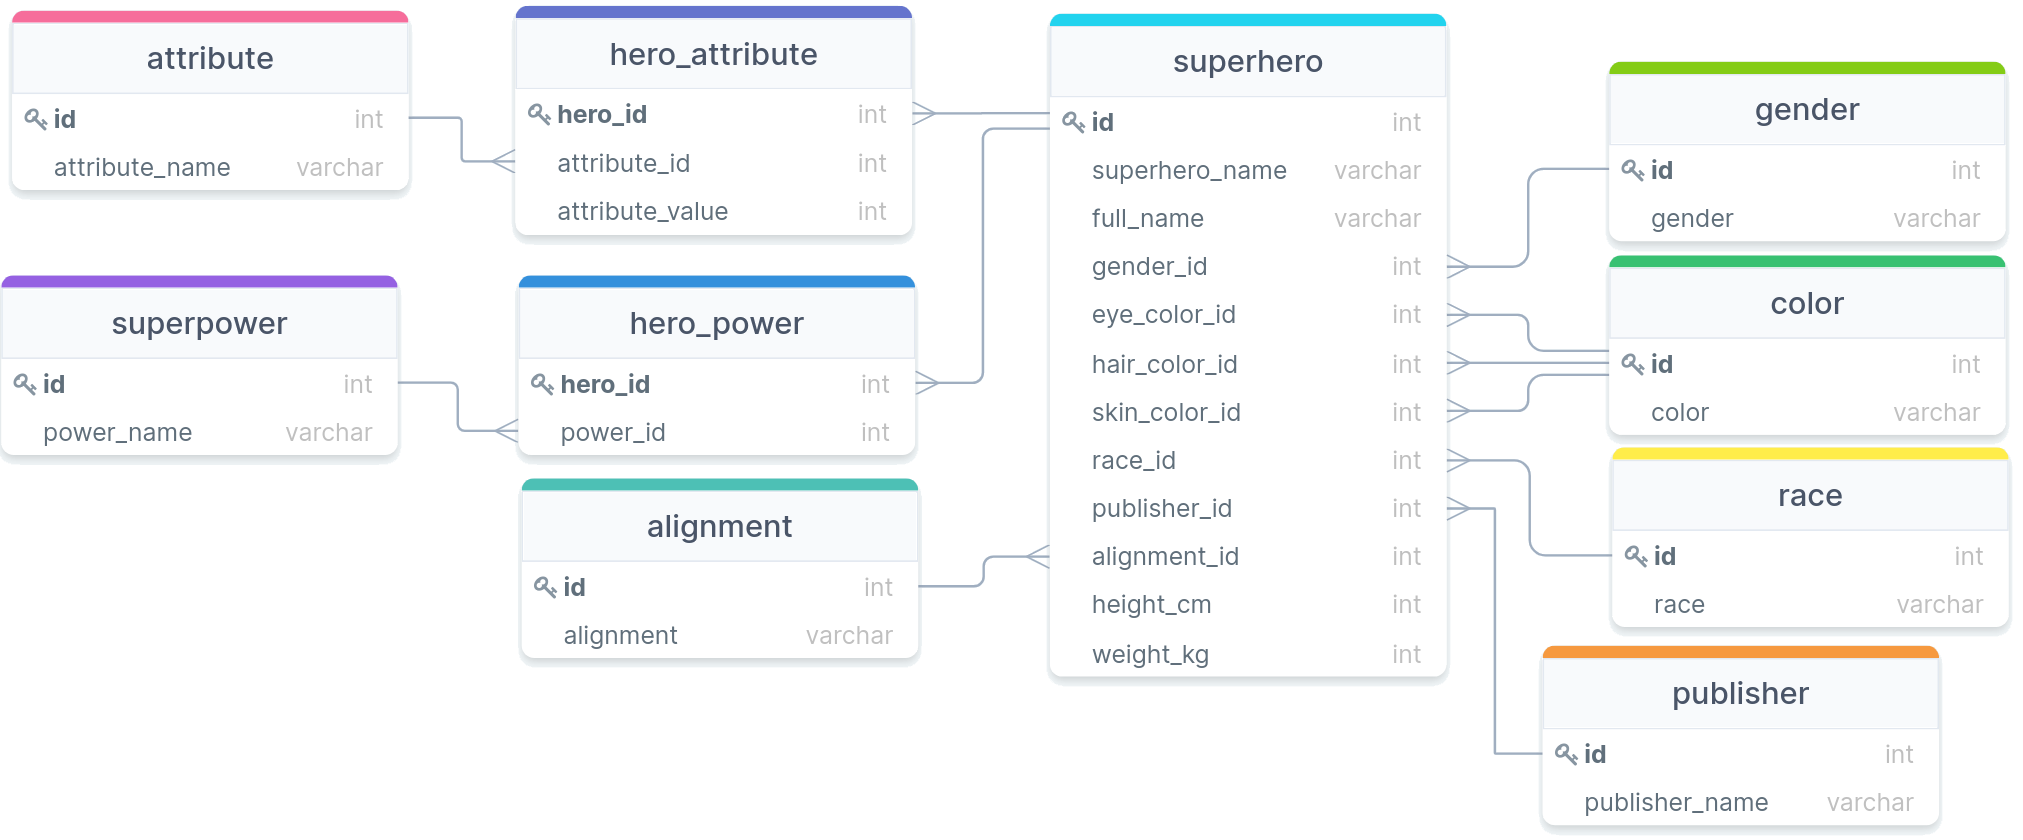
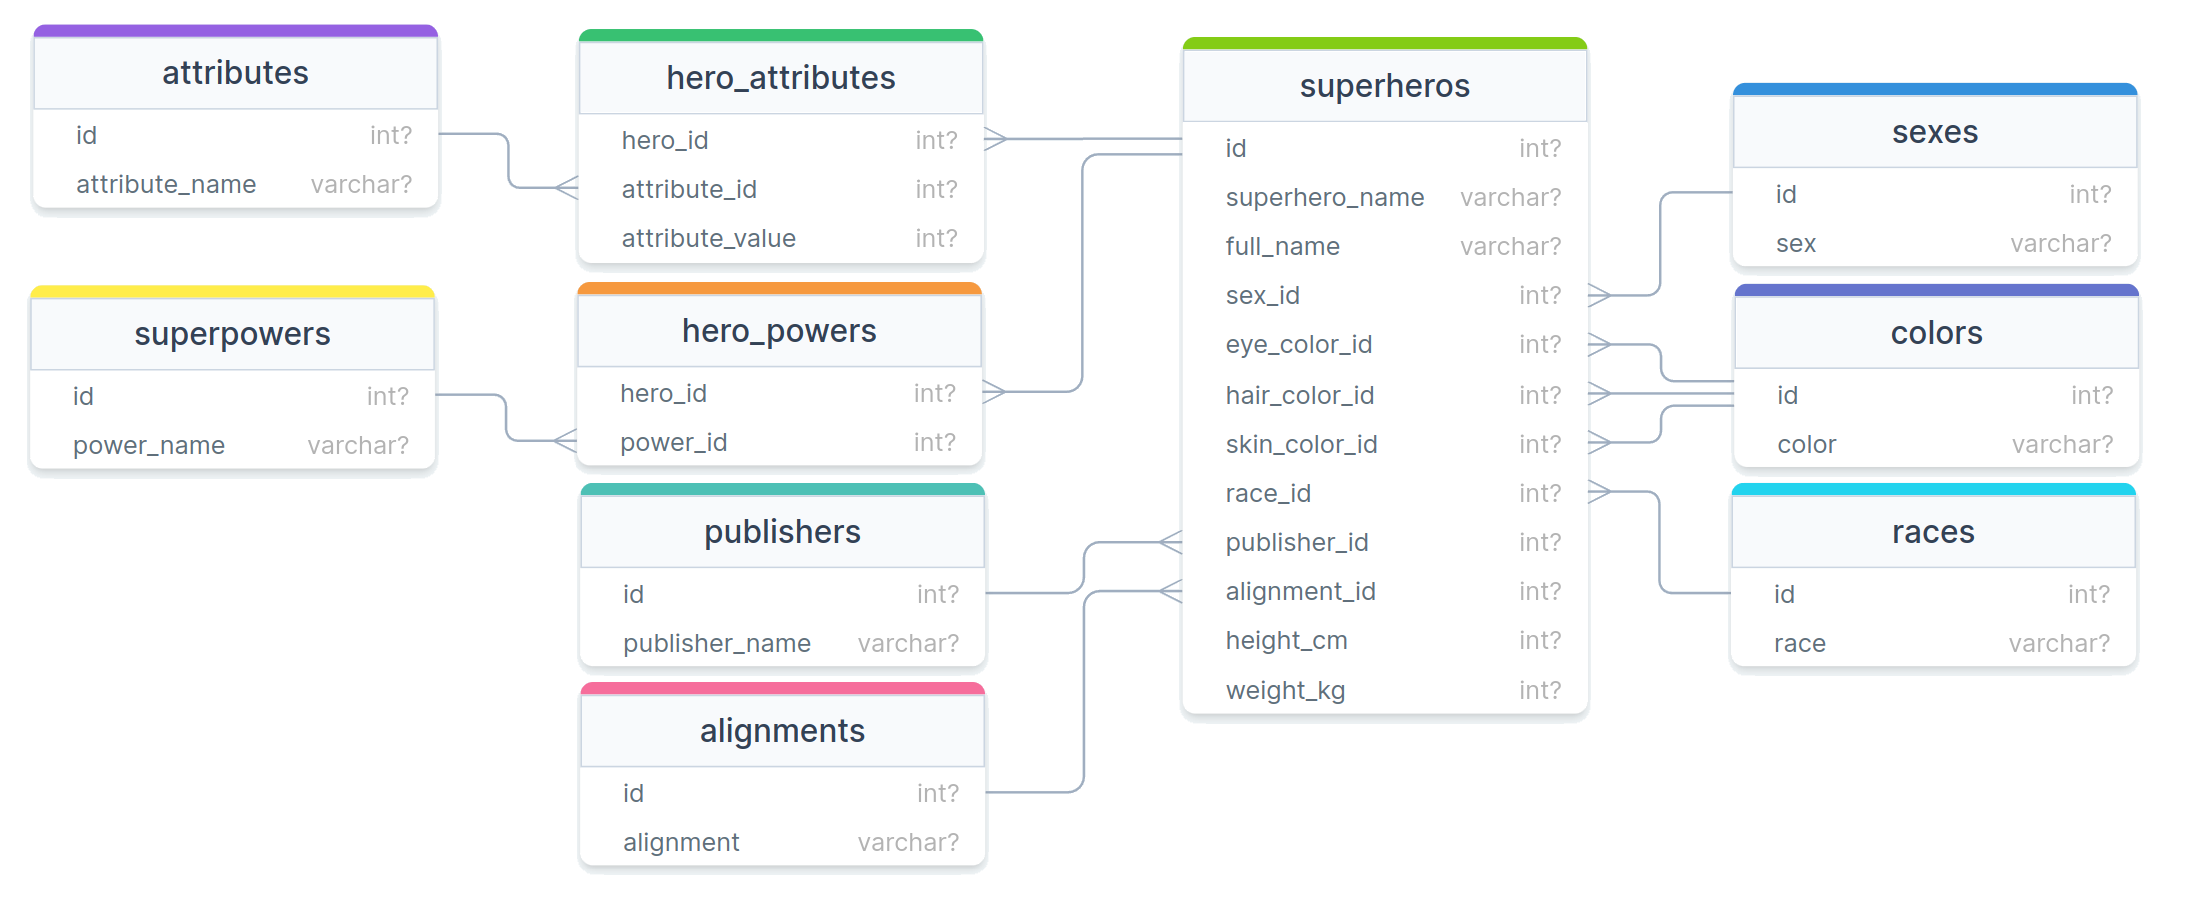
Update table names to plural and fix gender misnomers

diff --git a/README.md b/README.md
@@ -1,4 +1,4 @@
 # Homework 4
 Enclosed within this repository is a `.sql` script that you can run to generate all the tables necessary for the assignment, as well as an image showing the relationships between the superheroes tables. Upload your final work back to this repository when finished!
 
-Due date: September 29, 2022
+Due date: February 12, 2023

diff --git a/Problem2.md b/Problem2.md
@@ -33,7 +33,7 @@ What is the most common superpower for superheros with blond hair?
 ```
 
 ## Part E
-How many unique combinations of race and gender have no corresponding superheros?
+How many unique combinations of race and sex have no corresponding superheros?
 - **Answer:**
 ```sql
 

diff --git a/Problem1.md b/Problem1.md
@@ -5,6 +5,8 @@
 I am providing you space below to describe how you came up with your solution, as well as what the final combined BASH command was.
 
 - **Description:**
+
+
 ```bash
 
 ```
